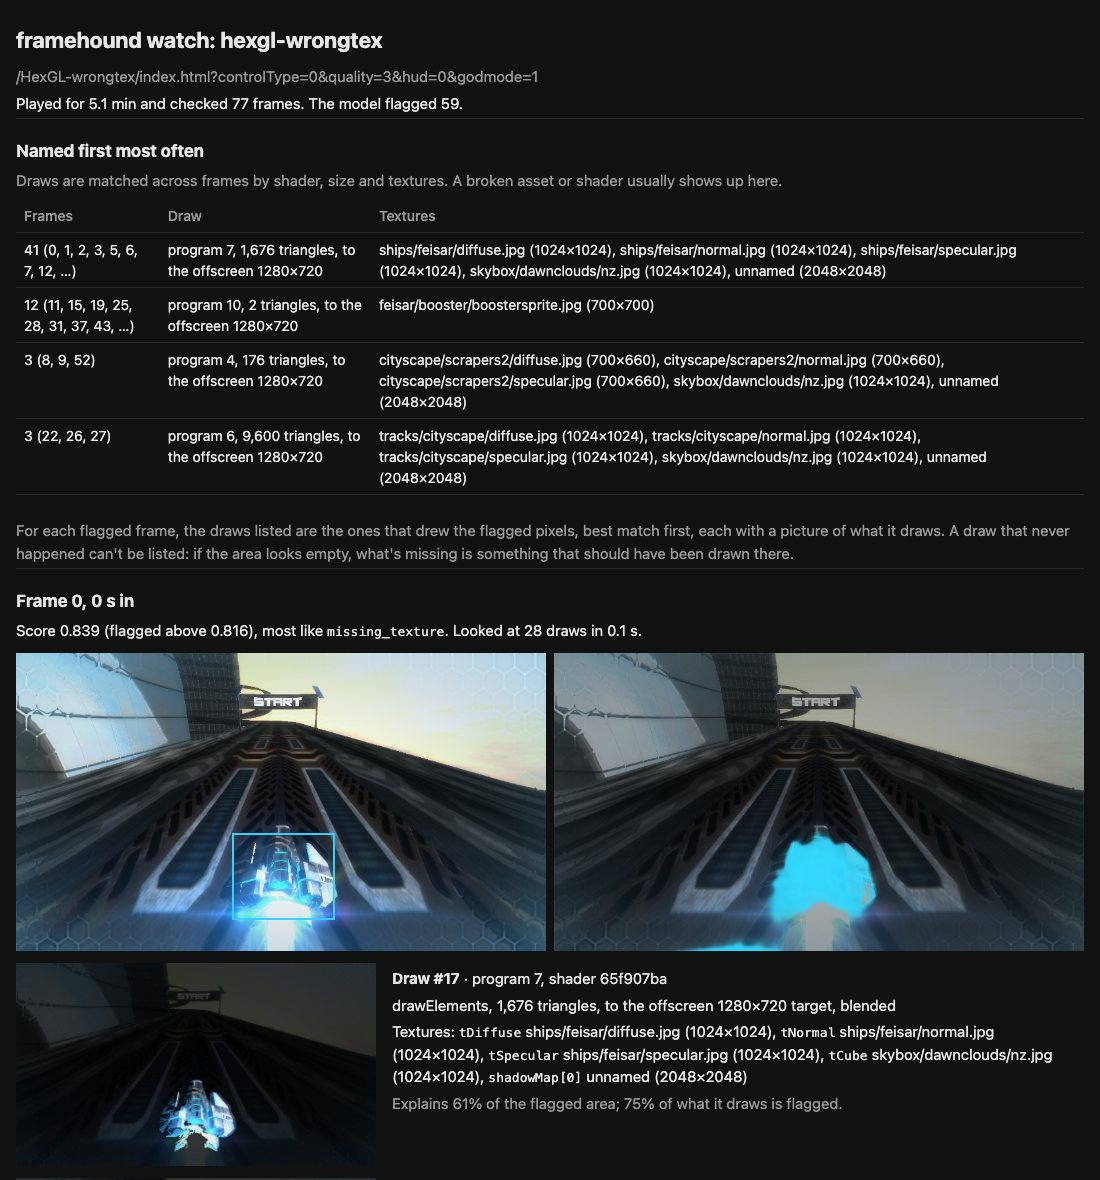
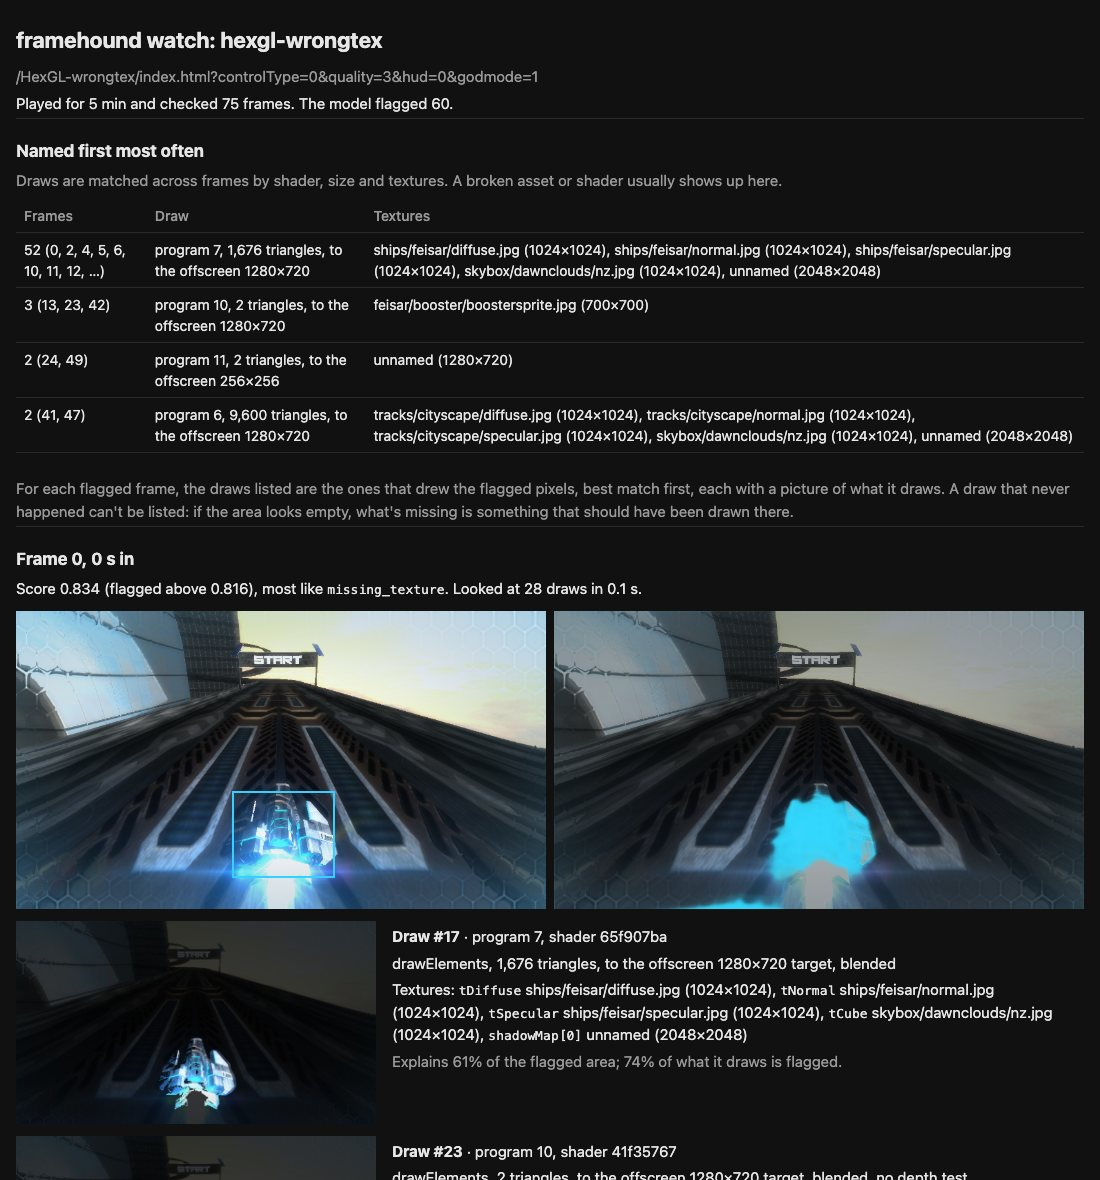
watch: rank draws by the heatmap alone; results on Edelweiss too
Counting draws to offscreen targets at half didn't help on two games (60 of
105 named first without it, 57 with), so ranking is back to heatmap explained
times share flagged. The README reports both games: broken draws that draw
to the frame itself are named first 71% of the time on HexGL and 90% on
Edelweiss, and the wrong-asset HexGL build, rerun with this ranking, names
the ship's draw first on 52 of 60 flagged frames.

diff --git a/generator/inject/glitch-gl.js b/generator/inject/glitch-gl.js
@@ -1057,9 +1057,7 @@
   // With the model's heatmap (`heat`: a coarse grid over the frame), a draw is ranked by the share of the heat it
   // explains times the mean heat over what it draws, so a full-screen pass or the ground behind an object ranks below
   // the object itself. Without one, the same is done with the box (x0, y0, x1, y1 in frame pixels) as the heat.
-  // Draws that only change the frame through a later pass count half: those to an offscreen target of another size
-  // than the canvas (a shadow map, a bloom buffer), and full-screen passes. A shadow map's draw of the track changes
-  // the track's shading almost as much as the track's own draw, but the track's own draw is what shows.
+  // (Counting draws to offscreen targets, such as shadow maps, at half was tried: on two games it didn't help.)
   function locate({ box, heat = null, pad = 6, top = 3 }) {
     if (!clean) return { ok: false, reason: 'not settled' };
     const t0 = realNow();
@@ -1124,11 +1122,7 @@
       if (heat ? warm > 0 : inside) {
         const coverage = heat ? warm / heatTotal : inside / area;
         const focus = heat ? warm / total : inside / total;
-        const canvas = mainCanvas();
-        const direct = !d.target || (canvas && d.target[0] === canvas.width && d.target[1] === canvas.height);
-        const pass = d.fullscreen && total > 0.5 * outW * outH; // a quad over most of the frame: a full-screen pass
-        const weight = (direct ? 1 : 0.5) * (pass ? 0.5 : 1);
-        found.push({ index: d.index, inside, total, coverage, focus, score: coverage * focus * weight, direct, whole_frame: total > 0.5 * outW * outH, bbox: [bx0, by0, bx1 + 1, by1 + 1] });
+        found.push({ index: d.index, inside, total, coverage, focus, score: coverage * focus, whole_frame: total > 0.5 * outW * outH, bbox: [bx0, by0, bx1 + 1, by1 + 1] });
       }
     }
     found.sort((a, b) => b.score - a.score);

diff --git a/README.md b/README.md
@@ -92,29 +92,35 @@ Two more cases were left out:
   every frame is flagged. The first two draws named are the ground and the object, both drawn with the broken
   lightmap shader (they sample the 1024×1024 lightmap). Finding them takes 0.2 s per frame.
 - **A wrong asset.** In a copy of HexGL, the ship's texture file holds the track's texture instead, as if the wrong
-  file had shipped. The model learned on the right build flags 59 of 77 frames, against about 7% of frames on the
-  right build. The report's top table names the same draw first in 41 of them: 1,676 triangles sampling
+  file had shipped. The model learned on the right build flags 60 of 75 frames, against about 7% of frames on the
+  right build. The report's top table names the same draw first in 52 of them: 1,676 triangles sampling
   `ships/feisar/diffuse.jpg`, the file to check.
 
 ![The top of watch's report on the HexGL build with the wrong ship texture](docs/watch-report.jpg)
 
-To measure naming, watch played HexGL four times for 12 minutes and broke a known draw on about half the frames
-(`--plant 0.5`). Over the four runs, the model flagged 281 of 372 broken frames (76%) and 24 of 351 clean ones
-(7%). For the 79 flagged frames of the last run, this is how often the broken draw came first:
+To measure naming, watch played each game for 12 minutes and broke a known draw on about half the frames
+(`--plant 0.5`):
+- **HexGL, over four runs:** 281 of 372 broken frames flagged (76%), and 24 of 351 clean ones (7%).
+- **Edelweiss:** 58 of 83 (70%), and 19 of 139 clean ones (14%). Its threshold comes from only 28 held-out clean
+  frames.
 
-| Broken draw | Frames | Named first | In the top three |
-|---|---|---|---|
-| a draw to the frame itself | 41 | **73%** | 80% |
-| the same, ranked by the truly broken pixels instead of the model's heatmap | 41 | 90% | 95% |
-| a draw to a shadow map or another offscreen target | 18 | 0% | 22% |
-| a draw that was left out | 20 | can't be named | |
+How often the broken draw came first, on the flagged frames of the last HexGL run and the Edelweiss run:
+
+| Broken draw | HexGL | Edelweiss |
+|---|---|---|
+| a draw to the frame itself: named first | **29 of 41** (71%) | **27 of 30** (90%) |
+| the same, in the top three | 31 of 41 (76%) | 30 of 30 |
+| the same, ranked by the truly broken pixels instead of the model's heatmap | 37 of 41 (90%) | 27 of 30 (90%) |
+| a draw into a shadow map or another offscreen target: named first | 1 of 11 | 3 of 11 |
+| a draw that was left out, or that leaves the frame unchanged when left out | 27, can't be named | 17, can't be named |
 
 - **Offscreen draws.** A draw into a shadow map only shows through the surfaces that receive the shadow. Leaving it out
   changes those surfaces more than the glitch did, so it is rarely pinned down.
-- **Draws that were left out** never drew anything, so there's nothing to name.
-- **The heatmap's cost.** Where the model points loses 17 points against the truly broken pixels, so a better heatmap
-  means better naming. A plain box around the flagged area does worse still: 34% first, against 51% with the heatmap
-  on the same frames.
+- **Draws that can't be named.** A draw that was left out never drew anything. Some glitches also leave the frame
+  as if the draw wasn't there, such as a sky turned inside out. Neither leaves anything to find.
+- **The heatmap's cost.** On HexGL, where the model points loses 19 points against the truly broken pixels. A better
+  heatmap means better naming. A plain box around the flagged area does worse still: on the same HexGL frames, 34%
+  first against 51% with the heatmap, counting all kinds.
 
 **The Vulkan layer** (`native/`) breaks draw calls in native Vulkan apps the same way, in six of the eleven ways so
 far. On a small Vulkan test scene it wrote 825 visible broken frames from 140 captured frames in about ten seconds,
@@ -230,8 +236,7 @@ node framehound.mjs learn '/HexGL/index.html?controlType=0&hud=0&godmode=1' --id
 - **Finds the draws behind a flagged area (watch).** The frozen frame is drawn again once per draw call with that draw
   left out, and the pixels that change are that draw's. Draws are ranked by how much of the model's heatmap they
   explain times how much of what they draw is flagged. That puts the object itself ahead of the ground behind it.
-  Draws that only reach the frame through a later pass count half: draws into shadow maps and other offscreen targets
-  of another size, and full-screen passes. A replayed frame takes 0.1–0.4 s for all of HexGL's ~30 draws.
+  A replayed frame takes 0.1–0.4 s for all of HexGL's ~30 draws.
 
 The eleven kinds of breakage:
 
